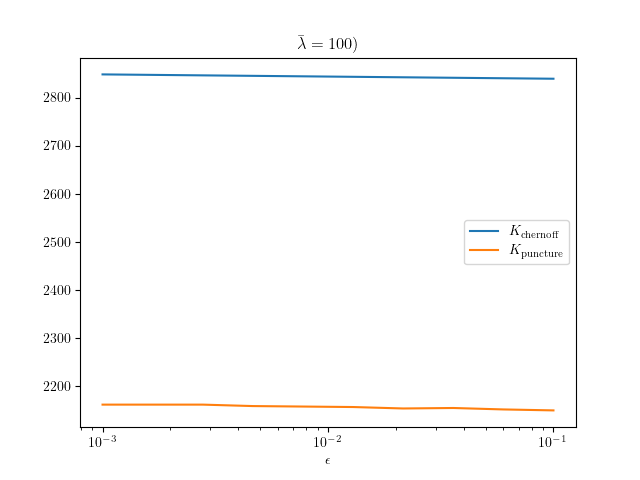
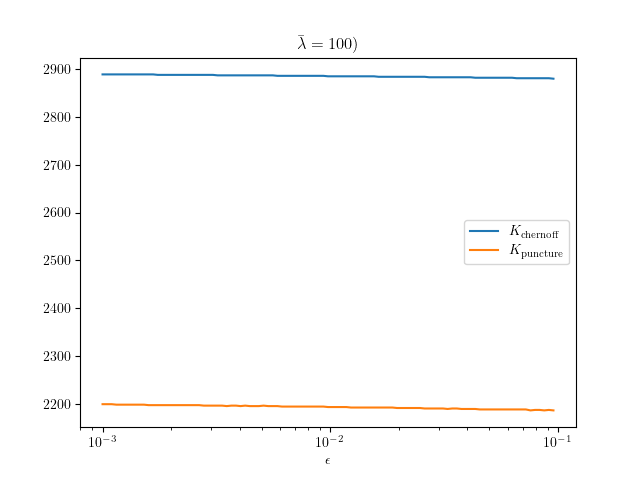
Plots the bounds instead of expectations

diff --git a/URLLC-helper/URLLC_functions.py b/URLLC-helper/URLLC_functions.py
@@ -573,7 +573,7 @@ if __name__ == '__main__':
     epsilon_error = 1e-5
     lambda_lower_bound = 1
     lambda_upper_bound = 10
-    mean_lambda = 100
+    mean_lambda = 6
     num_samples = 100
     gamma_scale = 1
     maximum_radius = 1000
